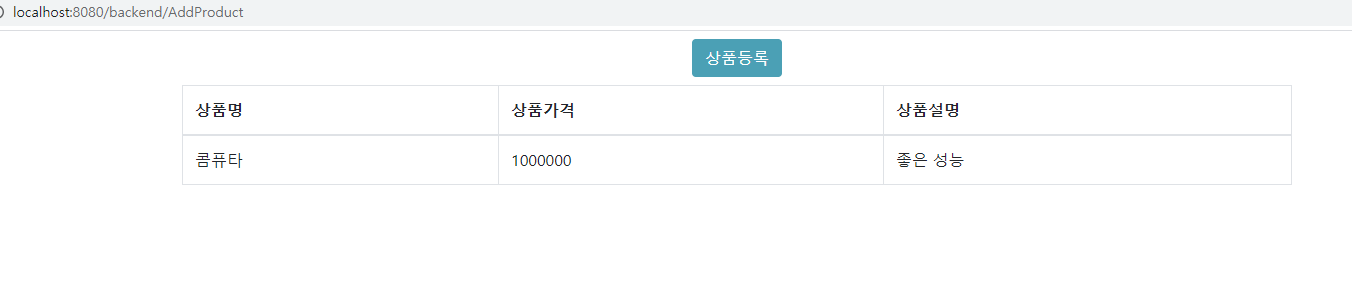
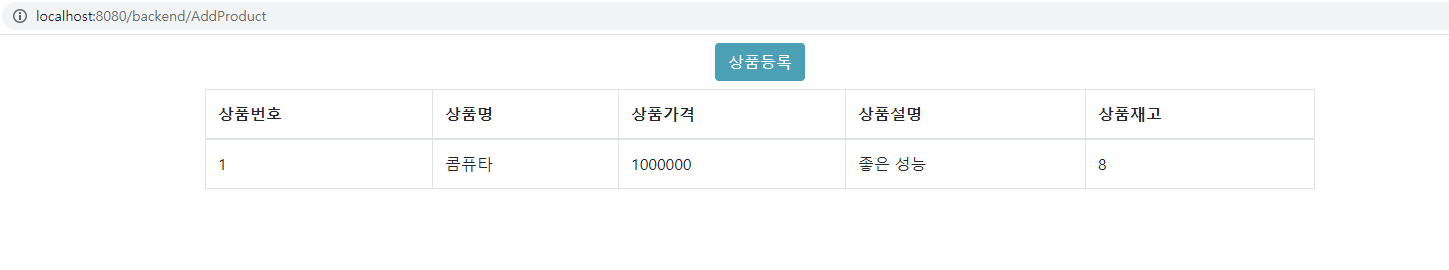
09/17 과제입니다.

diff --git a/0917/AddProduct.java b/0917/AddProduct.java
@@ -8,6 +8,7 @@ import javax.servlet.annotation.WebServlet;
 import javax.servlet.http.HttpServlet;
 import javax.servlet.http.HttpServletRequest;
 import javax.servlet.http.HttpServletResponse;
+import javax.xml.bind.ParseConversionEvent;
 
 @WebServlet("/AddProduct")
 public class AddProduct extends HttpServlet {
@@ -16,9 +17,11 @@ public class AddProduct extends HttpServlet {
 	protected void doPost(HttpServletRequest request, HttpServletResponse response) throws ServletException, IOException {
 		request.setCharacterEncoding("utf-8");
 		response.setCharacterEncoding("utf-8");
+		int pid = Integer.parseInt(request.getParameter("pid"));
 		String pname = request.getParameter("pname");
 		String price = request.getParameter("price");
 		String description = request.getParameter("description");
+		int stock = Integer.parseInt(request.getParameter("stock"));
 		
 		PrintWriter out = response.getWriter();
 		out.println("<!DOCTYPE html>");
@@ -47,15 +50,19 @@ public class AddProduct extends HttpServlet {
 		out.println("		<tbody>");
 		out.println("			<thead>");
 		out.println("				<tr>");
+		out.println("					<th>" + "상품번호" + "</th>");
 		out.println("					<th>" + "상품명" + "</th>");
 		out.println("					<th>" + "상품가격" + "</th>");
 		out.println("					<th>" + "상품설명" + "</th>");
+		out.println("					<th>" + "상품재고" + "</th>");
 		out.println("				</tr>");
 		out.println("			</thead>");
 		out.println("			<tr>");
+		out.println("				<td>" + pid + "</td>");
 		out.println("				<td>" + pname + "</td>");
 		out.println("				<td>" + price + "</td>");
 		out.println("				<td>" + description + "</td>");
+		out.println("				<td>" + stock + "</td>");
 		out.println("			</tr>");
 		out.println("		</tbody>");
 		out.println("	</table>");
